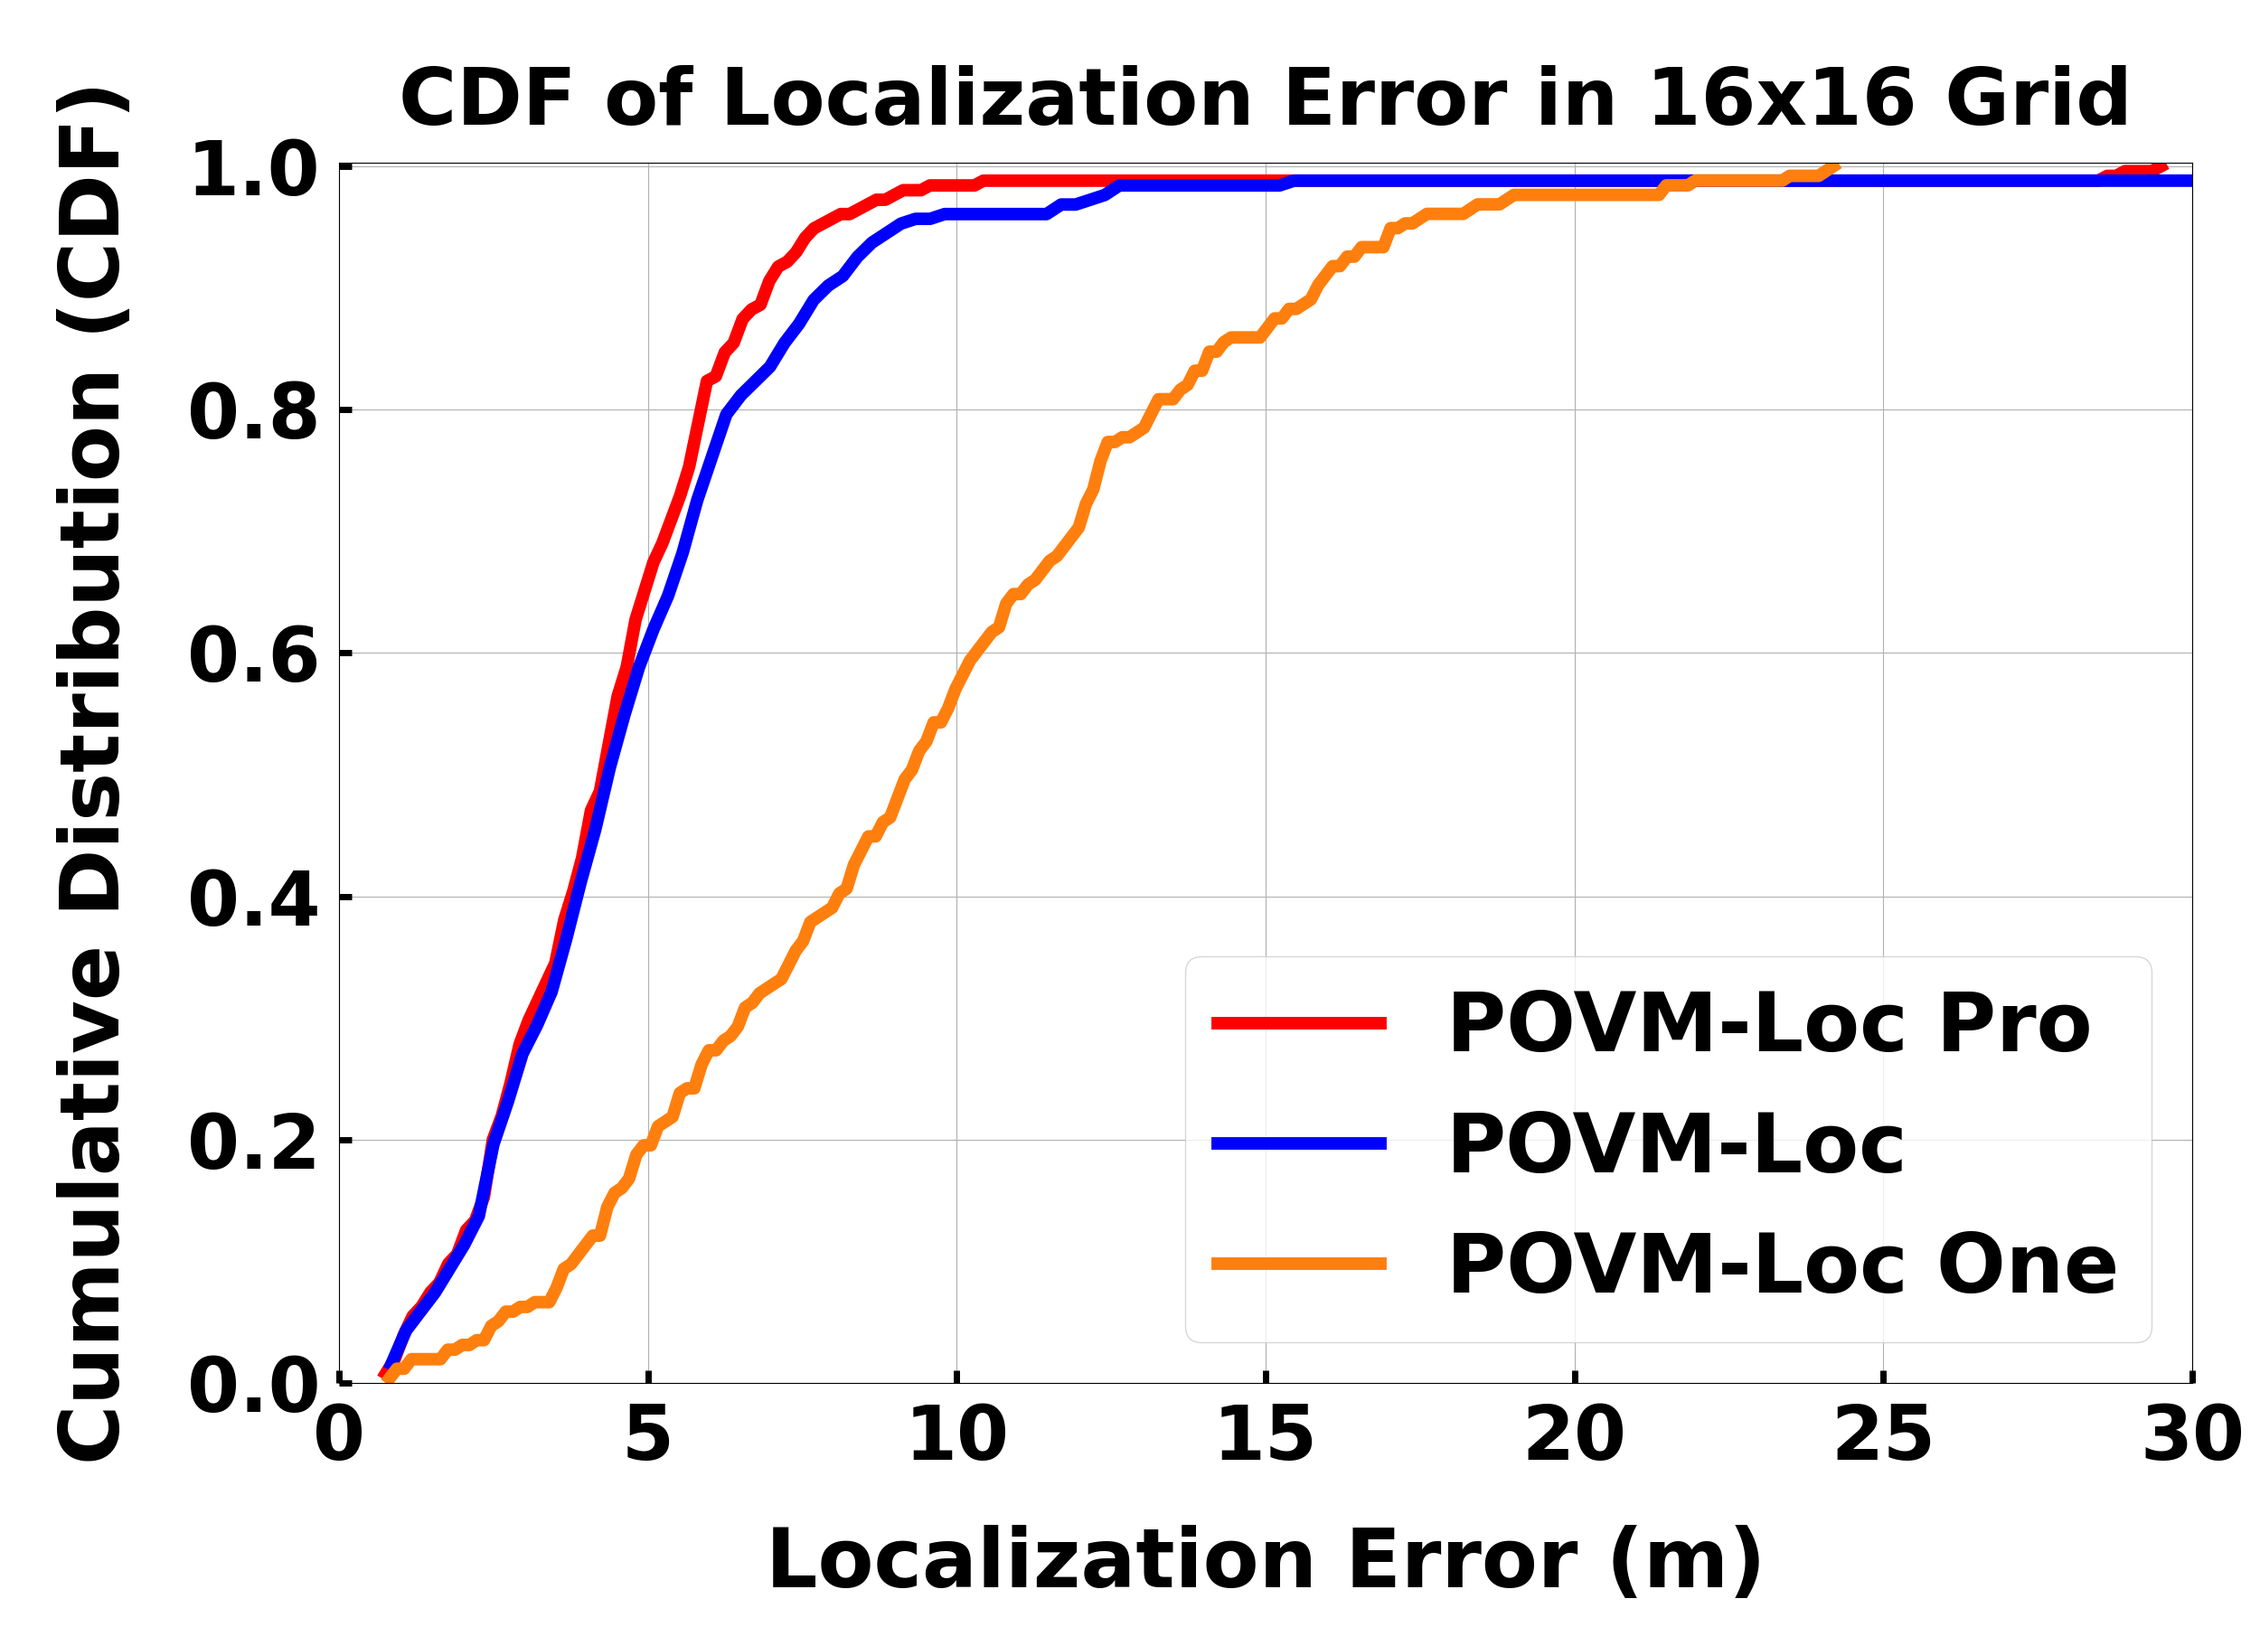
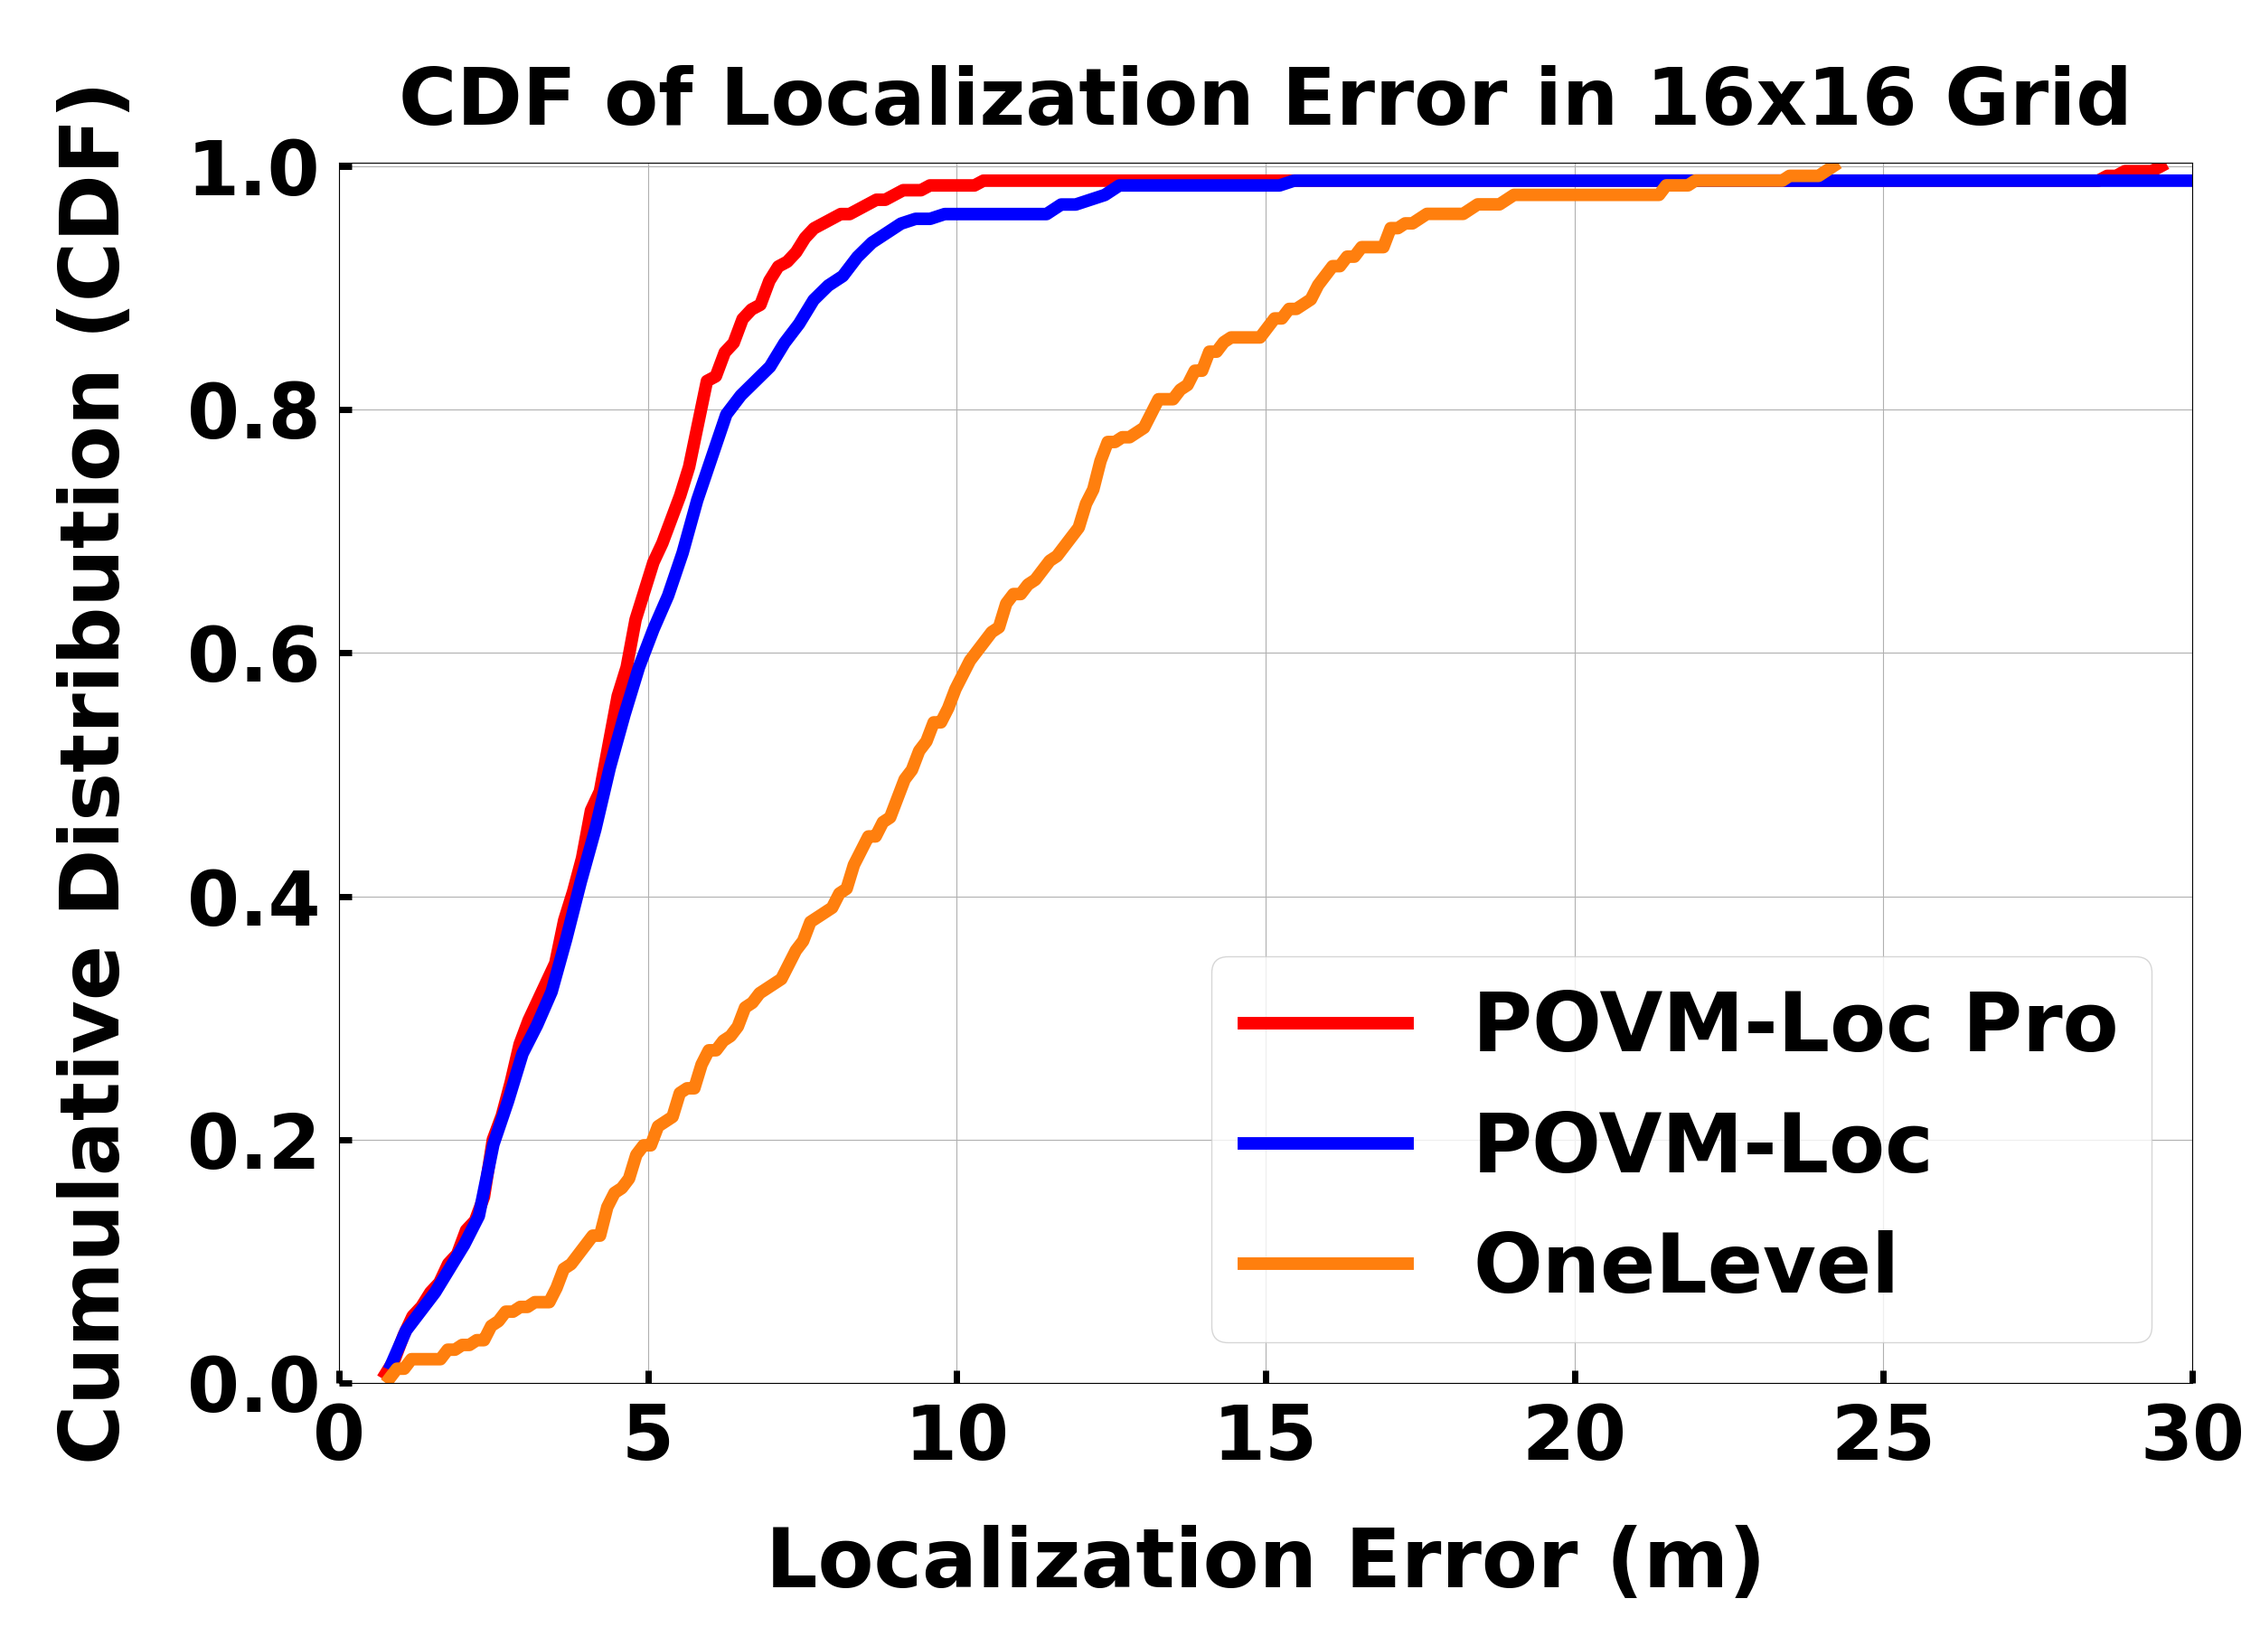
minor update of the plot

diff --git a/plot.py b/plot.py
@@ -16,7 +16,7 @@ class Plot:
     plt.rcParams['axes.labelweight'] = 'bold'
 
     METHOD  = ['povmloc-one',          'povmloc',  'povmloc-pro']
-    _LEGEND = ['POVM-Loc One', 'POVM-Loc', 'POVM-Loc Pro']
+    _LEGEND = ['OneLevel', 'POVM-Loc', 'POVM-Loc Pro']
     LEGEND  = dict(zip(METHOD, _LEGEND))
 
     METHOD  = ['povmloc-one', 'povmloc', 'povmloc-pro']
